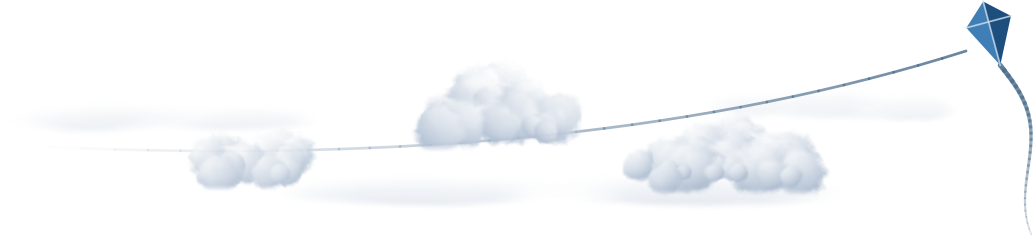
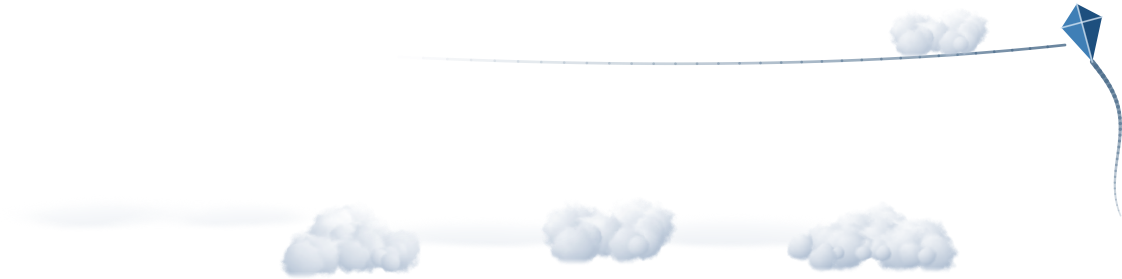
天空蓝主题窗口点缀左上角收紧：几朵小积云缩小并跨在拐角上往窗内收，只压住标题栏图标、不挡标题文字和菜单，日光与海鸥随之靠拢；右上角小风筝收到拐角框线上方，几朵小积云和薄雾移进菜单栏右侧空白处融入窗口，不挡标题栏按钮

diff --git a/dstools/qt/ornaments.py b/dstools/qt/ornaments.py
@@ -81,11 +81,12 @@ _SPRITES: dict[str, tuple[Sprite, ...]] = {
         # 都停在外框线外侧
         Sprite("sky_spray_right.png", 0, 0, 356, -27.5, 57),
         Sprite("sky_spray_down.png", 0, 0, -50.5, 248.5, 299),
-        # 左上主角：几朵大小不一的小积云错落叠在拐角外，背后透出柔和日光，薄雾从云间散开，几只海鸥远远飞过
-        Sprite("sky_cluster.png", 0, 0, 2.5, -40, 172),
-        # 右上呼应：拐角外高空里一只小风筝拖着细长飘带，风筝线沿上边往左淡去，线前飘着几朵小积云和薄雾；
-        # 都不挡标题栏按钮
-        Sprite("sky_spray_corner.png", 1, 0, -143.5, -35.5, 79),
+        # 左上主角：几朵小积云紧凑地跨在拐角上，只压住标题栏图标、不挡标题文字和菜单，背后透出柔和日光，
+        # 一缕薄雾横过拐角，几只海鸥飞过
+        Sprite("sky_cluster.png", 0, 0, 16, -16.5, 107),
+        # 右上呼应：小风筝停在拐角外框线上方，风筝线沿上边往左淡去；菜单栏右侧空着的那一条里融进几朵
+        # 小积云和薄雾；都不挡标题栏按钮
+        Sprite("sky_spray_corner.png", 1, 0, -166, 15.5, 93),
         # 右下角：一道低矮的积云带压在拐角，往左延一条薄层云，几只鸟沿右边框外侧往上飞；左下角留白
         Sprite("sky_bottom.png", 1, 1, -140.5, -67.5, 171),
     ),
